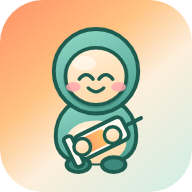
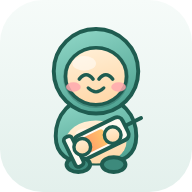
아이콘 바탕을 앱 메인 화면 배경색으로
효성님: "안 이뻐 멍든 거 같아. 그냥 약국 느낌의 배경색을 써.
연한 민트 배경이면 캐릭터 잘 보이는데."

맞는 말이라 그대로 간다. 코랄에서 민트로 내려가는 그라디언트를 만들었던 건
CLAUDE.md에 "아이콘은 코랄~옐로"라고 적혀 있어서였는데, 그건 효성님이 쓴
문장이고 효성님이 바꾸면 되는 것이다. 주황과 초록은 직접 섞으면 중간이
늘 탁해진다 — 고집할 이유가 없었다.

바탕 = style.css의 --bg-top(#f6fbf9) → --bg-bottom(#e3f0ec), 방향도 앱과 같은
위→아래. 앱을 열면 아이콘 색이 그대로 이어진다.
주황은 주사기 약물에만 남겼다. 연한 민트 위에서 캐릭터의 딥틸 외곽선과
코랄 주사기가 가장 또렷하다 — 180px에서도 둘 다 살아 있는 걸 확인했다.

아이콘 여섯 개를 다시 만들었다. CLAUDE.md의 아이콘 항목도 고쳐,
다음에 누가 "코랄~옐로 바탕" 규칙을 보고 되돌리지 않게 했다.

Claude-Session: https://claude.ai/code/session_0175BZd3boY1DdoUwBESnGq9

diff --git a/CLAUDE.md b/CLAUDE.md
@@ -94,8 +94,13 @@
 ## 앱 아이콘
 
 - 홈 화면 아이콘은 **마스코트가 주사기를 든 그림**이다(2026-10-11 변경).
-  코랄~옐로 그라디언트 바탕은 그대로 두고, 그 위에 앱 안과 같은 캐릭터
-  (민트 후드 `#8fd6c6`→`#4fa392`, 딥틸 외곽선 `#1f5c50`)를 올린다.
+  바탕은 **앱 메인 화면 배경색 그대로** 쓴다 — `--bg-top #f6fbf9` → `--bg-bottom #e3f0ec`,
+  방향도 앱과 같은 위→아래. 앱을 열면 아이콘 색이 그대로 이어진다.
+  ⚠ 바탕에 주황을 섞지 않는다. 예전 코랄~옐로 바탕을 민트로 잇겠다고 그라디언트를
+  만들었다가 중간이 탁해져 "멍든 것 같다"는 말을 들었다. 주황과 초록을 직접 섞으면
+  늘 그렇게 된다. 주황은 **주사기 약물에만** 남긴다 — 연한 민트 위에서 캐릭터의
+  딥틸 외곽선과 코랄 주사기가 가장 또렷하다.
+  그 위에 앱 안과 같은 캐릭터(민트 후드 `#8fd6c6`→`#4fa392`, 딥틸 외곽선 `#1f5c50`)를 올린다.
   주사기는 품에 안긴 채로 **반드시 남긴다** — 바늘이 실루엣 밖으로 나오게 그려서,
   180px로 줄여도 윤곽만으로 주사기가 읽혀야 한다. 작게 그리면 배 무늬로 뭉개진다.
   운세/사주 관련 심볼(크리스탈 볼 등)은 아이콘의 주 모티프로 쓰지 않는다 —
